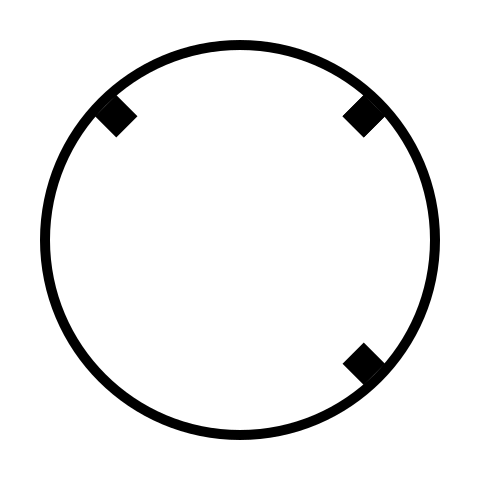
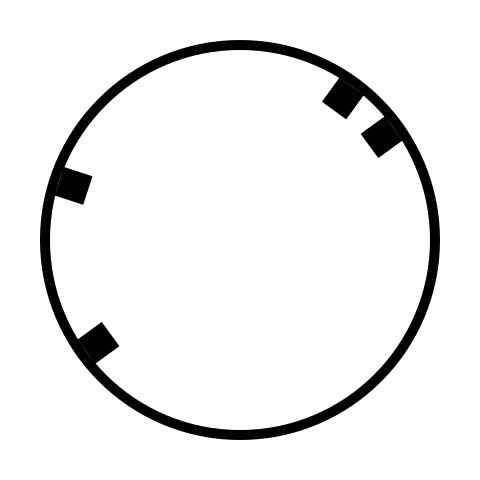
w

diff --git a/web/recognize.js b/web/recognize.js
@@ -30,6 +30,7 @@ class CircleCodedMarker {
     if(numPowerCouples === 0){
       return -1;
     }
+    console.log('numPowerCouples:', numPowerCouples);
     let numRegularCodeLines = codeLineAngles.length - numPowerCouples * 2;
     const code = numPowerCouples * 4 + numRegularCodeLines - 4;
     return code;
@@ -50,7 +51,7 @@ class CircleCodedMarker {
       const dist = distPoints(start, end);
       let far = new cv.Point(contour.data32S[defects.data32S[j * 4 + 2] * 2], contour.data32S[defects.data32S[j * 4 + 2] * 2 + 1]);
       let depth = defects.data32S[j * 4 + 3] / 256;
-      if (depth > dist * 0.3) {
+      if (depth > dist * 0.25) {
         defectPoints.push(far);
       }
     }
@@ -89,14 +90,20 @@ function getCircleFromContour(contour) {
   const rect = cv.boundingRect(approx);
   const center = { x: rect.x + rect.width / 2, y: rect.y + rect.height / 2 };
   const { radius } = cv.minEnclosingCircle(approx);
-  const unacceptableDistance = radius * 0.25;
+  let maxImperfectionDelta = 0;
+  let maxImperfection = 0;
 
   let isCircle = true;
   for (let j = 0; j < approx.rows && isCircle; ++j) {
     const point = { x: approx.data32S[j * 2], y: approx.data32S[j * 2 + 1] };
     let distance = distPoints(center, point);
-    if (Math.abs(distance - radius) > unacceptableDistance) {
-      isCircle = false;
+    const delta = Math.abs(distance - radius);
+    if (delta > maxImperfectionDelta) {
+      maxImperfectionDelta = delta;
+      maxImperfection = delta / radius;
+      if(maxImperfection > 0.3){
+        isCircle = false;
+      }
     }
   }
   if(!isCircle){
@@ -106,6 +113,7 @@ function getCircleFromContour(contour) {
   return { 
     center, 
     radius,
+    imperfection: maxImperfection,
     contour: approx
   }
 }
@@ -116,7 +124,7 @@ const isCircleInCircle = (outerCircle, innerCircle) => {
 }
 
 let imgElement = new Image();
-imgElement.src = './images/10.png';
+imgElement.src = './images/11.png';
 imgElement.onload = function () {
   ctx.strokeStyle = 'red';
   canvas.width = imgElement.width;
@@ -159,7 +167,9 @@ imgElement.onload = function () {
         continue;
       }
       if(isCircleInCircle(circles[i], circles[j])){
-        markers.push(new CircleCodedMarker(circles[i], circles[j]));
+        if(circles[i].imperfection < circles[j].imperfection){  
+          markers.push(new CircleCodedMarker(circles[i], circles[j]));
+        }
       }
     }
   }

diff --git a/generate.js b/generate.js
@@ -6,7 +6,7 @@ const padding = 40;
 const lineColor = 'black';
 const circleStrokeWidth = 10;
 const codeLineWidth = 30;
-const codeLineLength = 20;
+const codeLineLength = 30;
 const numPowerCouplesCodeLines = 4;
 const numRegularCodeLines = 6;
 const numCodeLines = numPowerCouplesCodeLines + numRegularCodeLines;
@@ -50,7 +50,6 @@ function generate(id) {
   ctx.stroke();
 
   // draw lines
-  const startAngle = Math.PI / 4;
   const code = {};
   for (let i = 0; i < numCodeLines; i++) {
     code[i] = LINE_CODES_STYLES.NONE;
@@ -62,7 +61,7 @@ function generate(id) {
   let powerCouplesLocations = new Array(numPowerCouplesCodeLines).fill(0).map((_, i) => Math.floor(numCodeLines / numPowerCouplesCodeLines * (i + 1)));
   
   powerCouplesLocations.forEach((location) => {
-    if(sum > 4){
+    if(sum >= 4){
       code[location] = LINE_CODES_STYLES.POWER_COUPLE;
       sum -= 4;
     }
@@ -110,4 +109,6 @@ function generate(id) {
   out.on('finish', () => console.log('The PNG file was created.'));
 }
 
-generate(10);
+for (let i = 0; i <= maxCodeableNumber; i++) {
+  generate(i);
+}
